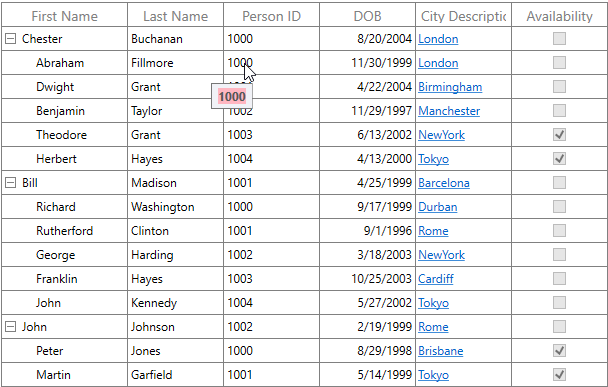
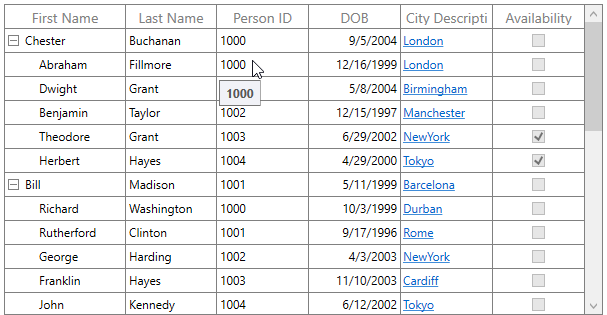
WPF-39899_ Tooltip contents are modified.

diff --git a/wpf/SfTreeGrid/Interactive-Feature.md b/wpf/SfTreeGrid/Interactive-Feature.md
@@ -34,7 +34,7 @@ this.treeGrid.ShowToolTip = true;
 {% endhighlight %}
 {% endtabs %}
 
-You can enable the ToolTip for the particular column by setting the [TreeGridColumn.ShowToolTip](https://help.syncfusion.com/cr/cref_files/wpf/sfdatagrid/Syncfusion.SfGrid.WPF~Syncfusion.UI.Xaml.TreeGrid.TreeGridColumn_properties.html) as `true`.
+You can enable the tooltip for the particular column by setting the [TreeGridColumn.ShowToolTip](https://help.syncfusion.com/cr/cref_files/wpf/sfdatagrid/Syncfusion.SfGrid.WPF~Syncfusion.UI.Xaml.TreeGrid.TreeGridColumn_properties.html) as `true`.
 
 {% tabs %}
 {% highlight xaml %}
@@ -51,13 +51,13 @@ this.treeGrid.Columns["LastName"].ShowToolTip = true;
 {% endhighlight %}
 {% endtabs %}
 
-N> It takes higher priority than SfTreeGrid.ShowToolTip.
+N> It takes higher priority than `SfTreeGrid.ShowToolTip`.
 
 ![](Interactive-Features_images/InteractiveFeatures_img1.png)
 
 ### Header ToolTip
 
-You can enable the ToolTip for the header cell by setting the [TreeGridColumn.ShowHeaderToolTip](https://help.syncfusion.com/cr/cref_files/wpf/sfdatagrid/Syncfusion.SfGrid.WPF~Syncfusion.UI.Xaml.Grid.GridColumnBase~ShowHeaderToolTip.html) as `true`.
+You can enable the tooltip for the header cell by setting the [TreeGridColumn.ShowHeaderToolTip](https://help.syncfusion.com/cr/cref_files/wpf/sfdatagrid/Syncfusion.SfGrid.WPF~Syncfusion.UI.Xaml.Grid.GridColumnBase~ShowHeaderToolTip.html) as `true`.
 
 {% tabs %}
 {% highlight xaml %}
@@ -80,59 +80,7 @@ this.treeGrid.Columns["FirstName"].ShowHeaderToolTip = true;
 
 ### Cell ToopTip
 
-You can change the appearance of the tooltip by customizing the style with TargetType as `ToolTip`. When hover the record cell to show the tooltip by setting `ShowToolTip` as `true`.
-
-{% tabs %}
-{% highlight xaml %}
-
-<Window.Resources>        
-    <Style TargetType="ToolTip">
-        <Setter Property="BorderThickness" Value="1,1,1,1" />
-        <Setter Property="BorderBrush" Value="Red" />
-        <Setter Property="Background" Value="SkyBlue" />
-    </Style>
-</Window.Resources>
-
-<syncfusion:SfTreeGrid.Columns>
-    <syncfusion:TreeGridTextColumn HeaderText="First Name" MappingName="FirstName" ShowToolTip="True" />
-</syncfusion:SfTreeGrid.Columns>
-	
-{% endhighlight %}
-{% endtabs %}
-
-![](Interactive-Features_images/InteractiveFeatures_img3.png)
-
-### Header ToolTip
-
-You can change the appearance of the tooltip by customizing the style with TargetType as `ToolTip`. When hover the header cell to show the tooltip by setting `ShowHeaderToolTip` as `true`.
-
-{% tabs %}
-{% highlight xaml %}
-
-<Window.Resources>        
-    <Style TargetType="ToolTip">
-        <Setter Property="BorderThickness" Value="1,1,1,1" />
-        <Setter Property="BorderBrush" Value="Red" />
-        <Setter Property="Background" Value="LightGreen" />
-    </Style>
-</Window.Resources>
-
-<syncfusion:SfTreeGrid.Columns>
-    <syncfusion:TreeGridTextColumn HeaderText="First Name" MappingName="FirstName" ShowHeaderToolTip="True" />
-</syncfusion:SfTreeGrid.Columns>
-	
-{% endhighlight %}
-{% endtabs %}
-
-![](Interactive-Features_images/InteractiveFeatures_img7.png)
-
-## ToolTip Customization
-
-You can customize the template of ToolTip by using the [TreeGridColumn.ToolTipTemplate](http://help.syncfusion.com/cr/cref_files/wpf/sfdatagrid/Syncfusion.SfGrid.WPF~Syncfusion.UI.Xaml.Grid.GridColumnBase~ToolTipTemplate.html) and [TreeGridColumn.ToolTipTemplateSelector](http://help.syncfusion.com/cr/cref_files/wpf/sfdatagrid/Syncfusion.SfGrid.WPF~Syncfusion.UI.Xaml.Grid.GridColumnBase~ToolTipTemplateSelector.html) properties. 
-
-### Customize the ToolTip using ToolTipTemplate
-
-You can customize the appearance of the ToolTip for particular column by setting `TreeGridColumn.ToolTipTemplate`. And you can also customize the appearance of header ToolTip for particular column by [TreeGridColumn.HeaderToolTipTemplate](http://help.syncfusion.com/cr/cref_files/wpf/sfdatagrid/Syncfusion.SfGrid.WPF~Syncfusion.UI.Xaml.Grid.GridColumnBase~HeaderToolTipTemplate.html) property. ToolTipTemplate receives underlying data object as DataContext.
+You can customize the appearance of the tooltip for particular column by setting [TreeGridColumn.ToolTipTemplate](http://help.syncfusion.com/cr/cref_files/wpf/sfdatagrid/Syncfusion.SfGrid.WPF~Syncfusion.UI.Xaml.Grid.GridColumnBase~ToolTipTemplate.html). `ToolTipTemplate` receives underlying data object as DataContext.
 
 {% tabs %}
 {% highlight xaml %}
@@ -151,8 +99,7 @@ You can customize the appearance of the ToolTip for particular column by setting
     </DataTemplate>
 </Window.Resources>
 
-<syncfusion:SfTreeGrid.Columns>
-    <syncfusion:TreeGridTextColumn HeaderText="First Name" MappingName="FirstName" ShowHeaderToolTip="True" />
+<syncfusion:SfTreeGrid.Columns>    
     <syncfusion:TreeGridTextColumn HeaderText="Last Name" MappingName="LastName" ToolTipTemplate="{StaticResource TemplateToolTip}" ShowToolTip="True" />
 </syncfusion:SfTreeGrid.Columns>
 
@@ -180,9 +127,42 @@ public class StringToImageConverter : IValueConverter
 
 You can get the sample from [here](http://www.syncfusion.com/downloads/support/directtrac/general/ze/ToolTipTemplateDemo-1415306479.zip).
 
-## Customize the ToolTip with ToolTipTemplateSelector
+### Header ToolTip
 
-The different ToolTip template can be loaded in a same column conditionally based on data by setting `TreeGridColumn.ToolTipTemplateSelector`. ToolTipTemplateSelector receives underlying data object as DataContext.
+You can customize the appearance of header tooltip for particular column by [TreeGridColumn.HeaderToolTipTemplate](http://help.syncfusion.com/cr/cref_files/wpf/sfdatagrid/Syncfusion.SfGrid.WPF~Syncfusion.UI.Xaml.Grid.GridColumnBase~HeaderToolTipTemplate.html) property. `ToolTipTemplate` receives underlying data object as DataContext.
+
+{% tabs %}
+{% highlight xaml %}
+
+<Window.Resources>
+    <local:StringToImageConverter x:Key="ImageConverter" />
+    <DataTemplate x:Key="headerToolTipTemplate">
+        <Grid>
+            <Grid.ColumnDefinitions>
+                <ColumnDefinition Width="*"/>
+                <ColumnDefinition Width="*"/>
+            </Grid.ColumnDefinitions>
+            <Image Height="30" Width="40" Source="\Assets\heading.png" />
+            <TextBlock Grid.Column="1" Text="LastName" VerticalAlignment="Center"/>
+        </Grid>
+    </DataTemplate>
+</Window.Resources>
+
+<syncfusion:SfTreeGrid.Columns>
+    <syncfusion:TreeGridTextColumn HeaderText="Last Name" MappingName="LastName"  HeaderToolTipTemplate="{StaticResource headerToolTipTemplate}" ShowHeaderToolTip="True" />
+</syncfusion:SfTreeGrid.Columns>
+	
+{% endhighlight %}
+{% endtabs %}
+
+![](Interactive-Features_images/InteractiveFeatures_img7.png)
+
+## ToolTip Customization
+
+You can customize the template selector of tooltip by using the 
+[TreeGridColumn.ToolTipTemplateSelector](http://help.syncfusion.com/cr/cref_files/wpf/sfdatagrid/Syncfusion.SfGrid.WPF~Syncfusion.UI.Xaml.Grid.GridColumnBase~ToolTipTemplateSelector.html) properties. 
+
+The different tooltip template can be loaded in a same column conditionally based on data by setting `TreeGridColumn.ToolTipTemplateSelector`. `ToolTipTemplateSelector` receives underlying data object as DataContext.
 
 {% tabs %}
 {% highlight xaml %}
